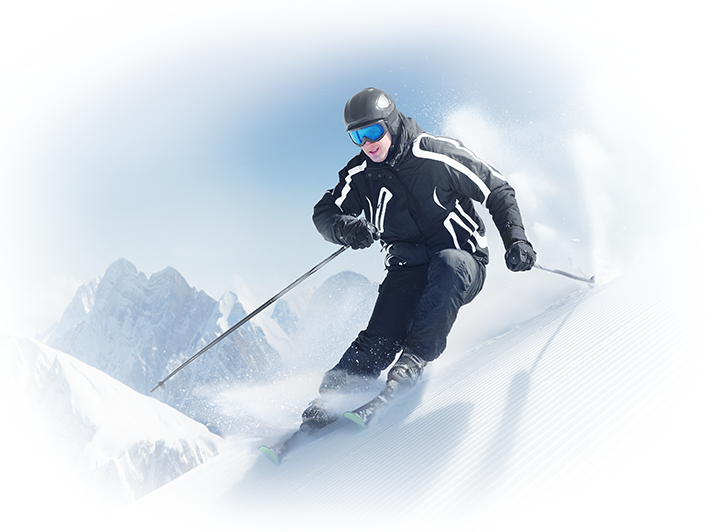
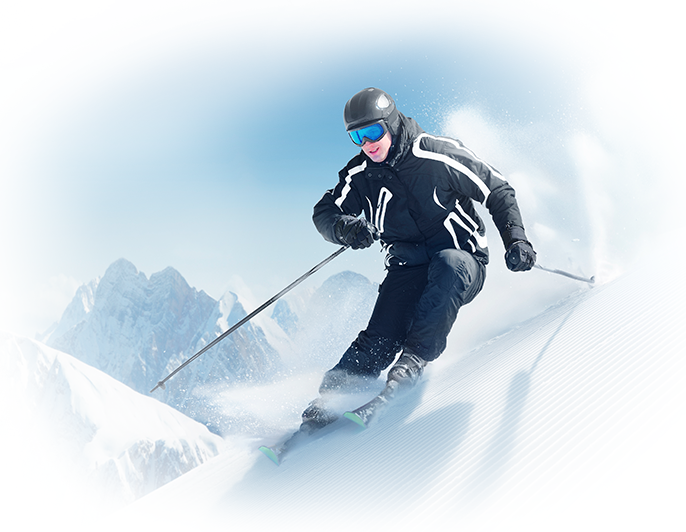
snth

diff --git a/index.html b/index.html
@@ -117,15 +117,15 @@
 						<h4>Ты будешь заниматься с инструктором международной категории Евгением Моисеенко</h4>
 						<P>Евгений занимается горнолыжным спортом уже 32 года! Является инструктором по горным лыжам категории В (тренирует учеников) и инструктором преподавателей категории С (обучает инструкторов) уже больше 4 лет. Входит в состав Национальной лиги инструкторов по горнолыжному спорту и сноуборду.</P>
 					</div>
-					<div class='col-md-7 hidden-sm hidden-xs'>
-						<img src="./img/instructor.png" align='right'>
+					<div class='col-md-7 hidden-xs '>
+						<img class="img-responsive" src="./img/instructor.png" align='right'>
 					</div>
 					
 				</div>
 				<div class='arrow-divider'></div>
 				<div class='row block-center relative-margin'>
-					<div class='col-md-7 hidden-sm hidden-xs'>
-						<img src="./img/ski.png" align='left'>
+					<div class='col-md-7 hidden-xs'>
+						<img class="img-responsive" src="./img/ski.png" align='left'>
 					</div>
 					<div class='col-md-5'>
 						<h4>Подберешь <br>нужное тебе снаряжение</h4>
@@ -138,14 +138,14 @@
 						<h4>Будешь чувствовать <br>себя уверенно на склоне</h4>
 						<P>Ответим на самые актуальные вопросы начинающего: как тормозить и останавливаться на склоне, как правильно падать и как безопасно пользоваться подъемником. А также покажем первые упражнения на склоне.</P>
 					</div>
-					<div class='col-md-7 hidden-sm hidden-xs'>
-						<img src="./img/black.png" align='right'>
+					<div class='col-md-7 hidden-xs'>
+						<img class="img-responsive" src="./img/black.png" align='right'>
 					</div>
 				</div>
 				<div class='arrow-divider'></div>
 				<div class='row block-center relative-margin'>
-					<div class='col-md-7 hidden-sm hidden-xs'>
-						<img src="./img/red.png" align='left'>
+					<div class='col-md-7 hidden-xs'>
+						<img class="img-responsive" src="./img/red.png" align='left'>
 					</div>
 					<div class='col-md-5 col-xs-12'>
 						<h4>А потом не придется переучиваться!</h4>

diff --git a/css/custom.css b/css/custom.css
@@ -24,7 +24,6 @@ h4,h6{
 }
 body
 {
-	/*zoom:85%;*/
 	background: url(../img/background.png) no-repeat center top;
 	-webkit-background-size: 100%;
     -moz-background-size: 100%;
@@ -364,7 +363,7 @@ header .tw{
 .dropdown{
 	margin: 2em 0;
 	padding: 0; 
-	width: 300px;
+	width: 350px;
 }
 
 .dropdown-toggle{
@@ -372,7 +371,7 @@ header .tw{
 	font-size: 2em;
 	font-family: 'Proxima Nova', Arial, Ubuntu, sans-serif;
 	color: #d30027;
-	border: 2px solid #d30027;
+	border: 3px solid #d30027;
 	border-radius: 0;
 	padding: 5px;
 	background-color: transparent;
